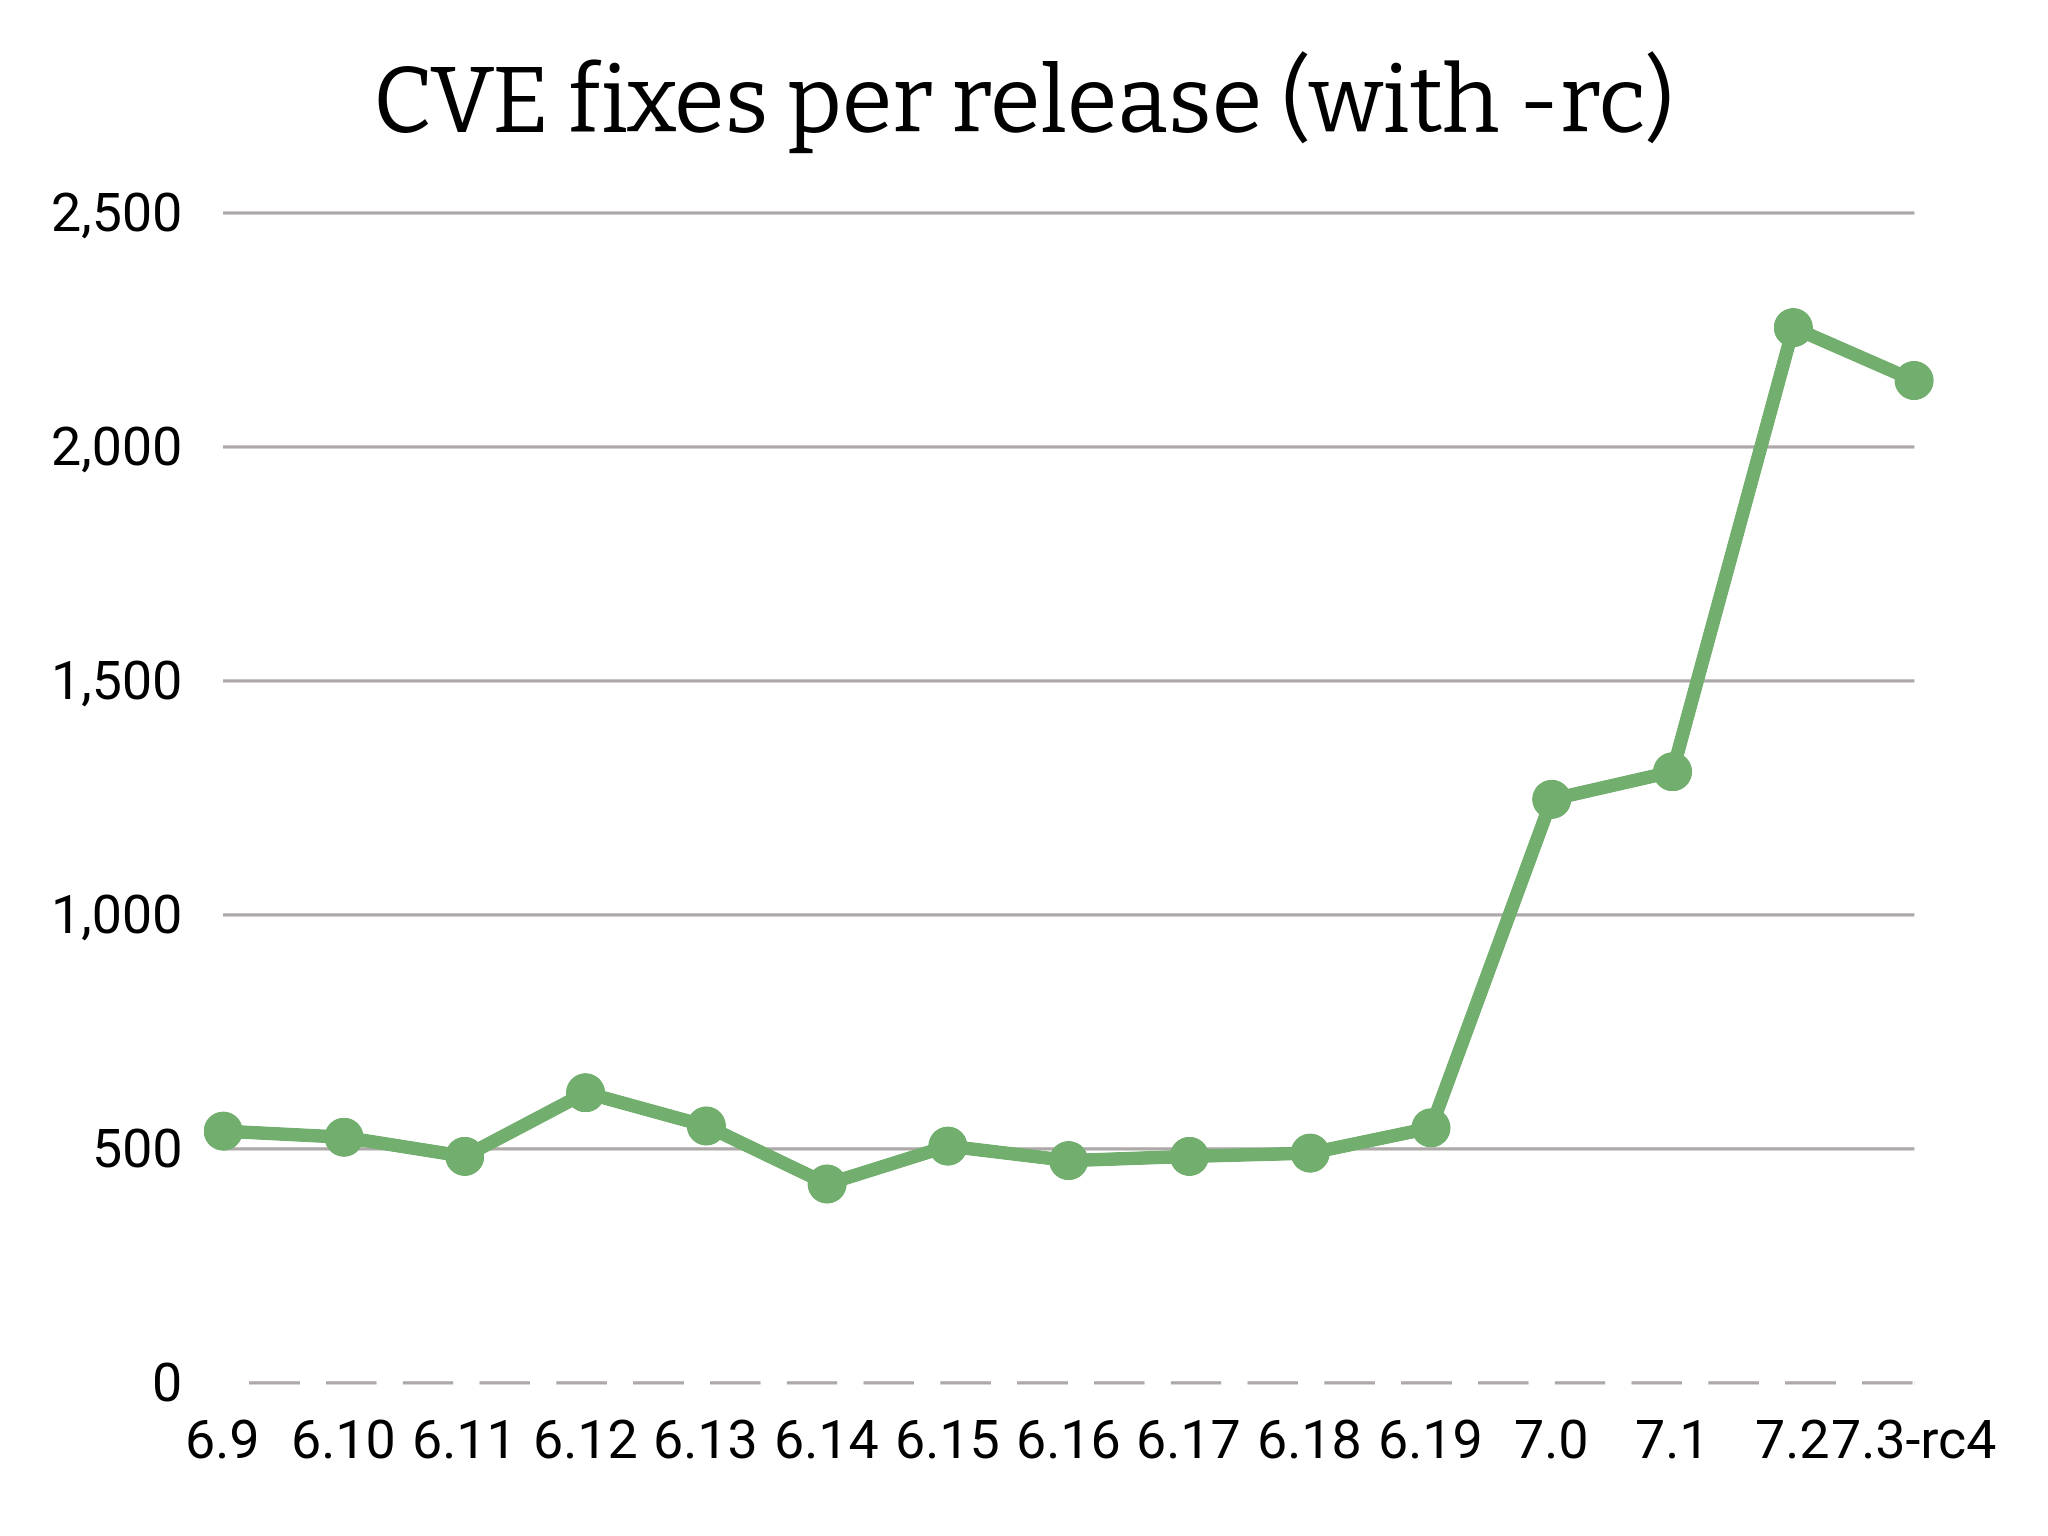
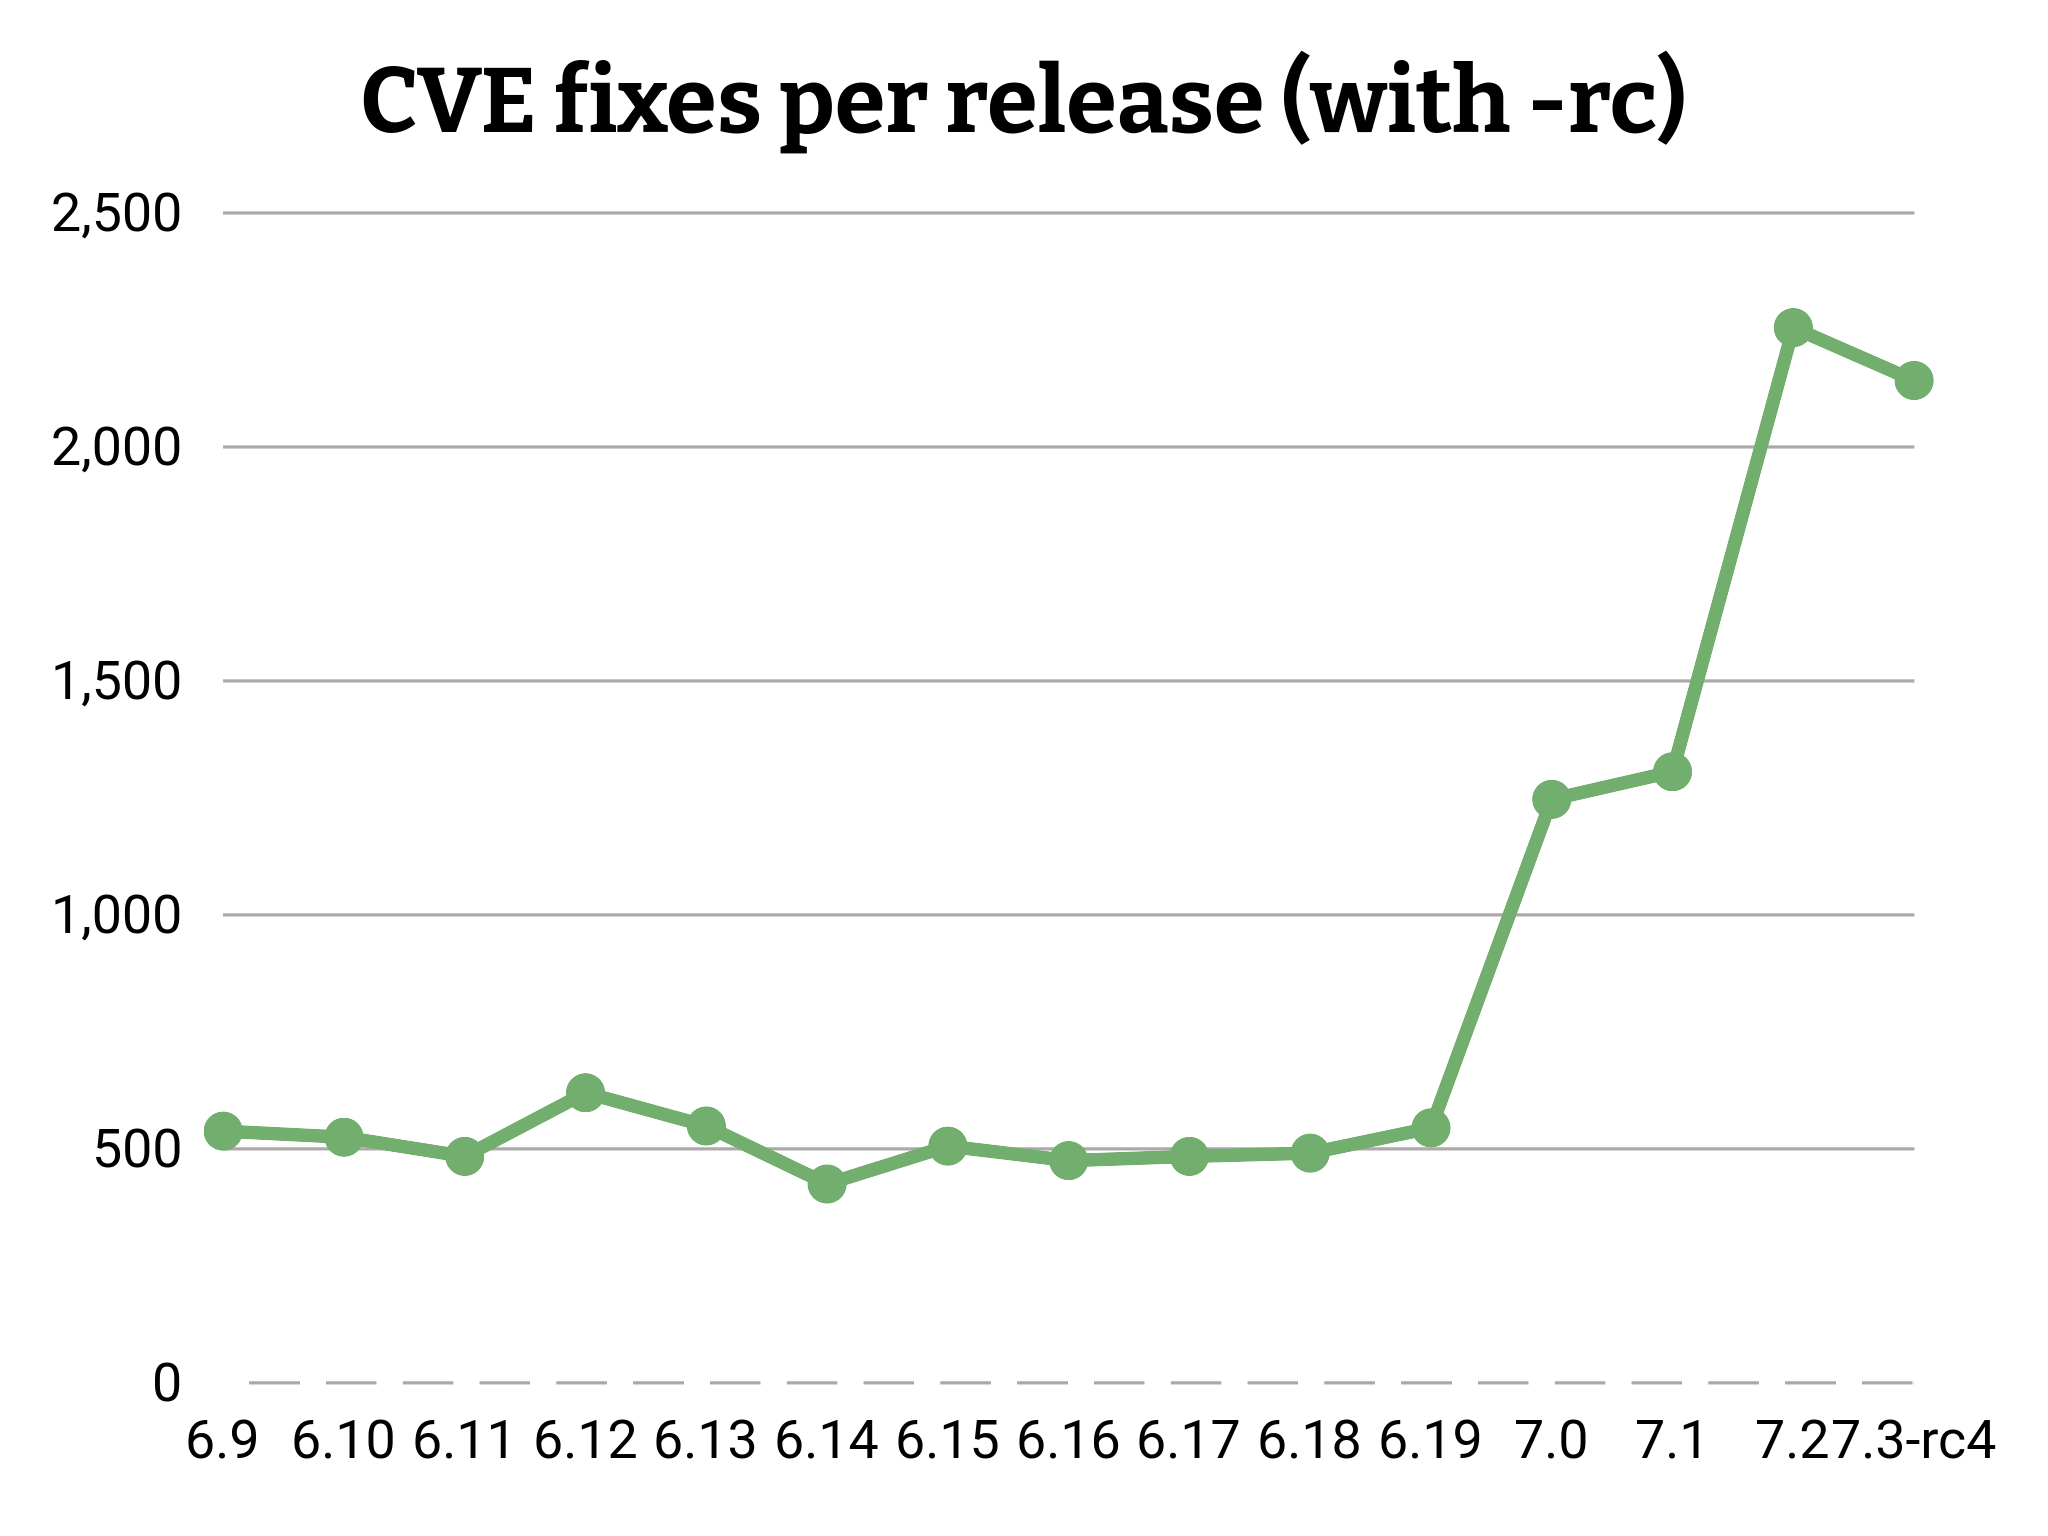
make the graph bold

Changed region(s): [[0.1562, 0.0312, 0.8438, 0.0938]]

diff --git a/graphs/patches_per_release/cves_per_release.rb b/graphs/patches_per_release/cves_per_release.rb
@@ -22,7 +22,7 @@ g.labels = {
 g.theme = Gruff::Themes::PASTEL
 
 g.hide_legend = true
-g.title_font = 'Bitter-Regular'
+g.title_font = 'Bitter-Bold'
 #g.font = 'Bitter'
 
 g.y_axis_increment = 500
@@ -75,7 +75,7 @@ g.labels = {
 g.theme = Gruff::Themes::PASTEL
 
 g.hide_legend = true
-g.title_font = 'Bitter-Regular'
+g.title_font = 'Bitter-Bold'
 #g.font = 'Bitter'
 
 g.y_axis_increment = 500
